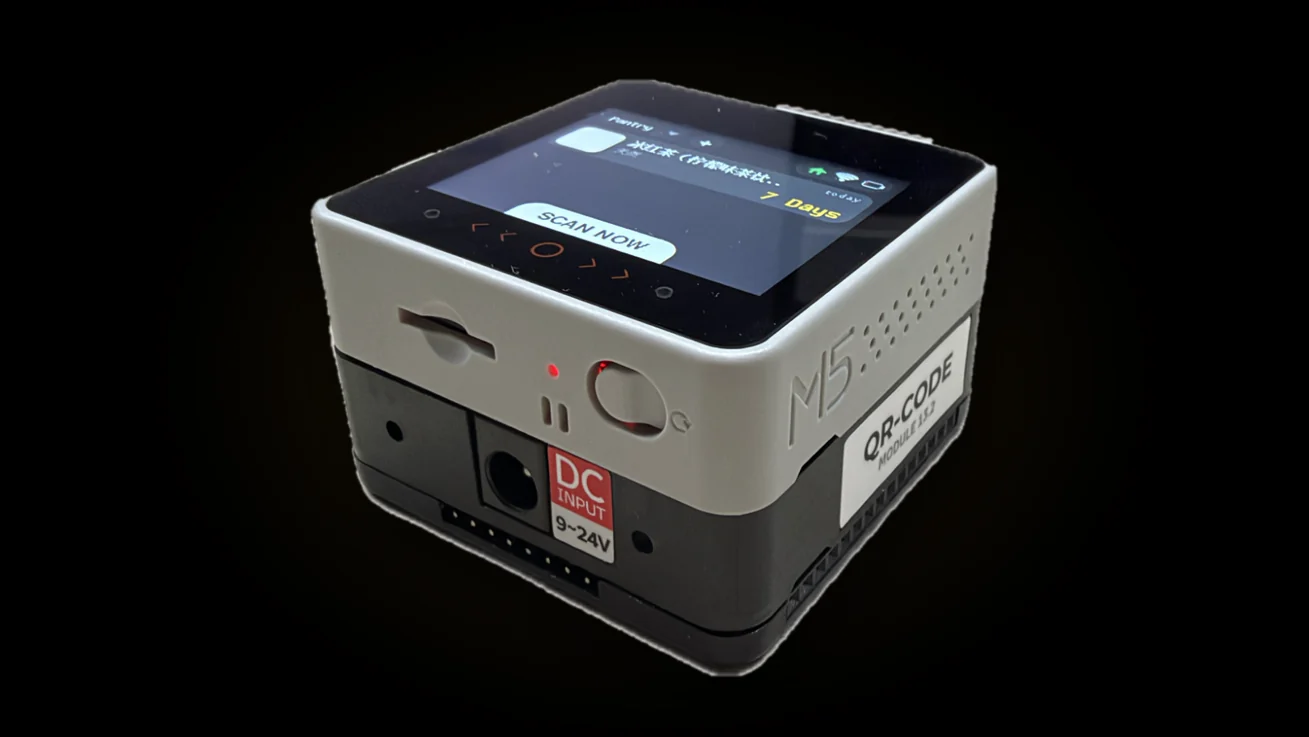
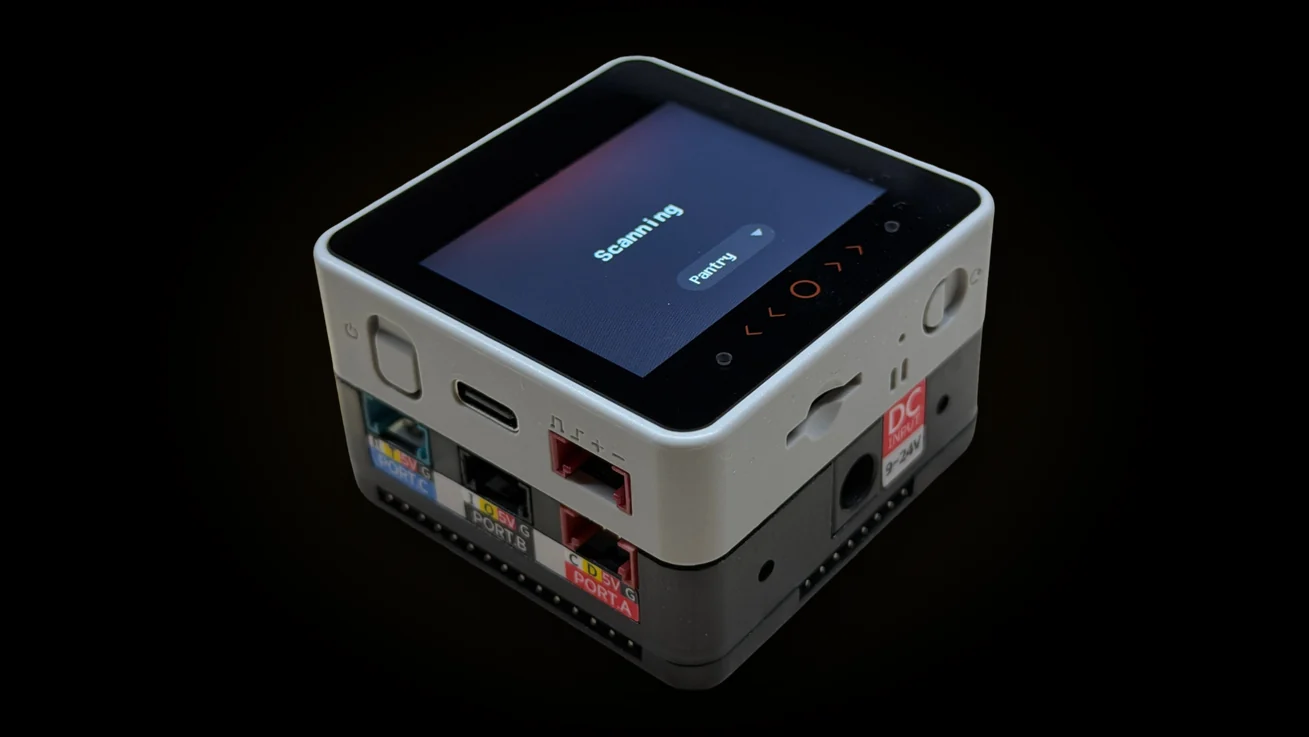
Pantry: the real CoreS3 SE in every mockup, bigger demo moments, Flashdeck and the public downloads; article tags sit on the AI mark's line

Changed region(s): [[0.2139, 0.0624, 0.7639, 0.9362]]

diff --git a/app/pantry/pantry.css b/app/pantry/pantry.css
@@ -15,41 +15,35 @@
 .pt .art-section b { color: rgba(240, 240, 240, 0.92); font-weight: 600; }
 .pt .art-section code { font-family: var(--pt-mono); font-size: 0.86em; padding: 0.1em 0.4em; border-radius: 6px; background: rgba(255, 255, 255, 0.07); color: #e6e6e6; }
 
-/* ── The CoreS3 SE: a 54 mm square in light grey, black glass, the 2-inch panel near the top ── */
-.pt-core {
-  position: relative; width: 100%; aspect-ratio: 1; border-radius: 11%;
-  background: linear-gradient(155deg, #f2f1ed 0%, #d8d7d2 42%, #bdbcb6 100%);
-  box-shadow:
-    inset 0 1.5px 0 rgba(255, 255, 255, 0.85), inset 0 -3px 6px rgba(0, 0, 0, 0.22), inset 3px 0 6px rgba(255, 255, 255, 0.25),
-    0 2px 3px rgba(0, 0, 0, 0.35), 0 18px 30px -14px rgba(0, 0, 0, 0.7), 0 44px 70px -40px rgba(8, 14, 30, 0.9);
-}
-.pt-core-glass { position: absolute; inset: 4.6%; border-radius: 8.5%; background: radial-gradient(120% 90% at 30% 0%, #141414 0%, #050505 55%); box-shadow: inset 0 0 0 1px rgba(255, 255, 255, 0.05), inset 0 1px 0 rgba(255, 255, 255, 0.08); }
-.pt-core-screen { position: absolute; left: 12.2%; right: 12.2%; top: 10.4%; aspect-ratio: 4 / 3; overflow: hidden; background: #000; border-radius: 0.6%; container-type: inline-size; }
-.pt-core-screen::after { content: ''; position: absolute; inset: 0; pointer-events: none; background: linear-gradient(160deg, rgba(255, 255, 255, 0.07) 0%, rgba(255, 255, 255, 0) 38%); }
-.pt-core-marks { position: absolute; left: 14%; right: 14%; top: 76.5%; height: 9%; display: flex; align-items: center; justify-content: space-between; color: rgba(214, 120, 52, 0.75); font-style: normal; font-family: var(--pt-sans); font-size: 5.4cqw; pointer-events: none; }
-.pt-core { container-type: inline-size; }
-.pt-core-marks b { width: 2.2cqw; height: 2.2cqw; border-radius: 50%; border: 1px solid rgba(220, 220, 220, 0.35); }
-.pt-core-marks em { width: 4.4cqw; height: 4.4cqw; border-radius: 50%; border: 0.5cqw solid rgba(214, 120, 52, 0.8); }
-.pt-core-marks span { line-height: 1; transform: translateY(-6%); }
+/* ── The CoreS3 SE: a photo of the real unit, the screen laid on its display window ──
+   The window is x 18-444, y 85-381 of the 476 x 475 photo; the 4:3 screen is as
+   tall as it (y 88-378) and centred (x 37.5-424.5). */
+.pt-core { position: relative; width: 100%; aspect-ratio: 476 / 475; }
+.pt-core-frame { position: absolute; inset: 0; width: 100%; height: 100%; display: block; pointer-events: none; user-select: none; filter: drop-shadow(0 22px 26px rgba(2, 6, 16, 0.55)) drop-shadow(0 4px 6px rgba(0, 0, 0, 0.35)); }
+.pt-core-screen { position: absolute; left: 7.88%; width: 81.3%; top: 18.53%; aspect-ratio: 4 / 3; overflow: hidden; background: #000; container-type: inline-size; }
+.pt-core-screen::after { content: ''; position: absolute; inset: 0; pointer-events: none; z-index: 5; background: linear-gradient(160deg, rgba(255, 255, 255, 0.06) 0%, rgba(255, 255, 255, 0) 36%); }
 .pt-shot { position: absolute; inset: 0; width: 100%; height: 100%; object-fit: cover; image-rendering: auto; }
 
-/* ── The demo: a phone video with buttons for its moments ── */
-.pt-demo { display: grid; grid-template-columns: minmax(0, 320px) minmax(0, 1fr); gap: clamp(18px, 3vw, 32px); align-items: end; margin-top: 18px; }
-.pt-demo-video { width: 100%; aspect-ratio: 9 / 16; max-height: 78vh; object-fit: cover; border-radius: 20px; background: #05070c; border: 1px solid rgba(255, 255, 255, 0.1); box-shadow: 0 30px 60px -34px rgba(0, 0, 0, 0.9); display: block; }
-.pt .pt-demo-moments { display: grid; gap: 8px; margin: 0; padding: 0; list-style: none; max-width: none; }
-.pt .pt-demo-moments li { padding: 0; }
+/* ── The demo: a phone video beside four moment cards that fill its height ── */
+.pt-demo { display: grid; grid-template-columns: minmax(0, 360px) minmax(0, 1fr); gap: clamp(16px, 2.6vw, 28px); align-items: stretch; margin-top: 18px; }
+.pt-demo-video { width: 100%; aspect-ratio: 9 / 16; max-height: 80vh; object-fit: cover; border-radius: 20px; background: #05070c; border: 1px solid rgba(255, 255, 255, 0.1); box-shadow: 0 30px 60px -34px rgba(0, 0, 0, 0.9); display: block; }
+.pt .pt-demo-moments { display: grid; grid-template-rows: repeat(4, minmax(0, 1fr)); gap: 10px; margin: 0; padding: 0; list-style: none; max-width: none; }
+.pt .pt-demo-moments li { padding: 0; min-height: 0; display: flex; }
 .pt .pt-demo-moments li::before { content: none; }
 .pt-demo-moments button {
-  display: flex; align-items: baseline; gap: 12px; width: 100%; text-align: left; cursor: pointer;
-  padding: 12px 14px; border-radius: 12px; border: 1px solid rgba(255, 255, 255, 0.09); background: rgba(255, 255, 255, 0.03);
-  font-family: 'dmsans'; font-size: 0.98rem; color: rgba(232, 232, 232, 0.78);
+  flex: 1; min-height: 0; display: flex; align-items: center; gap: 16px; width: 100%; text-align: left; cursor: pointer;
+  padding: 10px 18px 10px 10px; border-radius: 16px; border: 1px solid rgba(255, 255, 255, 0.1); background: rgba(255, 255, 255, 0.035); color: rgba(232, 232, 232, 0.8);
   transition: background-color 0.2s ease, border-color 0.2s ease, transform 0.25s cubic-bezier(0.2, 0.8, 0.2, 1);
 }
-.pt-demo-moments button span { font-family: var(--pt-mono); font-size: 0.82rem; color: rgba(var(--sa-accent), 0.9); min-width: 2.6em; }
-.pt-demo-moments button:hover { background: rgba(255, 255, 255, 0.07); border-color: rgba(255, 255, 255, 0.18); transform: translateX(3px); }
+.pt-demo-moments img { height: 100%; max-height: 132px; aspect-ratio: 9 / 16; width: auto; object-fit: cover; border-radius: 10px; flex: none; background: #05070c; }
+.pt-demo-text { display: grid; gap: 4px; min-width: 0; }
+.pt-demo-time { font-family: 'dmsans'; font-variant-numeric: tabular-nums; font-size: 0.92rem; font-weight: 700; letter-spacing: 0.02em; color: rgba(var(--sa-accent), 0.95); }
+.pt-demo-moments b { font-family: 'oswaldreg'; font-weight: 400; font-size: clamp(1.15rem, 1.6vw, 1.4rem); line-height: 1.2; color: #f0f0f0; }
+.pt-demo-note { font-family: 'dmsans'; font-size: 0.95rem; line-height: 1.45; color: rgba(232, 232, 232, 0.62); }
+.pt-demo-moments button:hover { background: rgba(255, 255, 255, 0.07); border-color: rgba(255, 255, 255, 0.2); transform: translateX(3px); }
 .pt-demo-moments button:active { transform: translateX(1px) scale(0.99); }
 .pt-demo-moments button:focus-visible { outline: 2px solid rgba(var(--sa-accent), 0.9); outline-offset: 2px; }
-.pt-demo-moments button.is-on { border-color: rgba(var(--sa-accent), 0.5); background: rgba(var(--sa-accent), 0.08); color: #f2f2f2; }
+.pt-demo-moments button.is-on { border-color: rgba(var(--sa-accent), 0.55); background: rgba(var(--sa-accent), 0.09); }
 
 /* ── Feature rows: the screen beside a few words ── */
 .pt-feat { display: grid; grid-template-columns: minmax(0, 0.92fr) minmax(0, 1fr); gap: clamp(18px, 3.4vw, 40px); align-items: center; }
@@ -186,8 +180,9 @@
 @media (max-width: 760px) {
   .pt-demo { grid-template-columns: minmax(0, 1fr); }
   .pt-demo-video { max-width: 340px; margin: 0 auto; max-height: 70vh; }
-  .pt-demo-moments { grid-template-columns: 1fr 1fr; }
-  .pt-demo-moments button { flex-direction: column; gap: 2px; padding: 10px 12px; font-size: 0.9rem; }
+  .pt .pt-demo-moments { grid-template-rows: none; }
+  .pt-demo-moments img { height: 96px; }
+  .pt-demo-moments button { gap: 14px; }
   .pt-feat { grid-template-columns: minmax(0, 1fr); }
   .pt-feat.flip .pt-feat-media { order: 0; }
   .pt-feat-media > .pt-core { max-width: 300px; }

diff --git a/app/pantry/page.tsx b/app/pantry/page.tsx
@@ -1,6 +1,7 @@
 import type { Metadata } from 'next';
 import ArticleScrollSpy from '../../components/ArticleScrollSpy';
 import AiMark from '../../components/AiMark';
+import ArticleLinks from '../../components/ArticleLinks';
 import ArticleRecommendations from '../../components/ArticleRecommendations';
 import LazyVideo from '../../components/LazyVideo';
 import { Screen } from './Core';
@@ -41,6 +42,9 @@ const BackArrow = () => (
   <svg viewBox="0 0 24 24" fill="none" aria-hidden="true"><path d="M15 19l-7-7 7-7" stroke="currentColor" strokeWidth="2" strokeLinecap="round" strokeLinejoin="round" /></svg>
 );
 const I = '/images/pantry/';
+const REPO = 'https://github.com/New-Kringster/Pantry_tracker_code';
+const DL = REPO + '/releases/latest/download/';
+const FLASHDECK = 'https://flashdeck.shebang.pro/';
 const V = '/videos/pantry/';
 
 /* One feature: the screen (and sometimes a clip of it in the hand) beside a few words. */
@@ -60,7 +64,7 @@ export default function PantryPage() {
       <ArticleScrollSpy />
 
       <header className="art-hero">
-        <div className="art-hero-bg"><img src={I + 'cover.webp'} alt="The pantry tracker: a CoreS3 SE stacked on the QRCode module, its screen listing a drink that expires in 7 days" /></div>
+        <div className="art-hero-bg"><img src={I + 'cover.webp'} alt="The pantry tracker: a CoreS3 SE stacked on the QRCode module and its battery base, the screen glowing red while it scans" /></div>
         <div className="art-hero-scrim"></div>
         <div className="art-hero-inner hp-section">
           <a className="art-back" href="/#projects"><BackArrow /> Back to projects</a>
@@ -80,6 +84,13 @@ export default function PantryPage() {
               <img src="/images/mosquitto-icon.svg" alt="Mosquitto MQTT" />
             </div>
           </div>
+          <ArticleLinks
+            links={[
+              { type: 'github', label: 'GitHub', url: REPO },
+              { type: 'download', label: 'Flash the firmware', url: FLASHDECK },
+              { type: 'download', label: 'Server downloads', url: REPO + '/releases/latest' },
+            ]}
+          />
           <p className="pt-meta">Internship project at M5Stack, November 2026. M5Stack CoreS3 SE, Module13.2 QRCode, C++, Python, Docker, MQTT.</p>
         </div>
       </header>
@@ -206,12 +217,16 @@ export default function PantryPage() {
 
           <section id="setup" className="art-section" data-reveal>
             <h2>Setting one up</h2>
+            <p>Everything you need is free to download: the firmware flashes from your browser, and the server comes as a Docker bundle with its images included, so nothing has to be pulled from Docker Hub while it installs.</p>
             <ol className="pt-steps">
               <li>
                 <p>On the QRCode module, slide the interface toggle to UART and switch on number 2 in both the TX and RX DIP blocks, then stack the three parts.</p>
                 <figure className="art-fig"><img src={I + 'diagram-hardware-setup.webp'} alt="The interface toggle set to UART, switch 2 on in the TX and RX DIP blocks, and the CoreS3 SE stacked on the module and the battery base" loading="lazy" /></figure>
               </li>
-              <li><p>Set <code>TZ</code> in <code>docker-compose.yml</code> to your time zone and run <code>./install.sh</code> on a computer with Docker, which loads the server and an MQTT broker without pulling anything from Docker Hub.</p></li>
+              <li><p>Open <a href={FLASHDECK} target="_blank" rel="noopener">Flashdeck</a> in Chrome or Edge, choose <b>Pantry</b>, plug the CoreS3 SE in over USB-C and press <b>Install</b>, which flashes the firmware straight from the browser.</p></li>
+              <li>
+                <p>Download the server for the computer that will run it, either the <a href={DL + 'pantry-server-docker-amd64.tar.gz'}>bundle for Intel and AMD computers</a> or the <a href={DL + 'pantry-server-docker-arm64.tar.gz'}>bundle for Apple Silicon Macs and a Raspberry Pi</a>. Unpack it, set <code>TZ</code> in <code>docker-compose.yml</code> to your time zone and run <code>./install.sh</code> in that folder.</p>
+              </li>
               <li>
                 <p>Turn the tracker on, scan the QR code on its screen with your phone, and enter your WiFi and the server address, for example <code>http://192.168.1.20:8080</code>.</p>
                 <figure className="art-fig"><img src={I + 'diagram-first-boot.webp'} alt="First boot: the tracker opens a Pantry hotspot with a QR code, the phone joins it, the setup page takes the WiFi and server address, and the home screen loads" loading="lazy" /></figure>
@@ -223,6 +238,7 @@ export default function PantryPage() {
               <li><p>In Home Assistant, add the MQTT integration with the server&rsquo;s IP address and port 1883.</p></li>
               <li><p>For Chinese barcodes, add a free gds.org.cn account under <b>Settings</b> on the server&rsquo;s web page and sign in once.</p></li>
             </ol>
+            <p>The <a href={REPO} target="_blank" rel="noopener">GitHub repository</a> has the full guide in its README, along with the firmware and server code if you would rather build them yourself.</p>
             <p className="pt-note">Product names and photos on this page come from Open Food Facts (CC BY-SA) and GS1 China.</p>
           </section>
         </div>

diff --git a/app/pantry/Core.tsx b/app/pantry/Core.tsx
@@ -1,10 +1,11 @@
 /*
-  The CoreS3 SE drawn in CSS around a screen (server-safe, no state).
+  The CoreS3 SE around a screen (server-safe, no state).
 
-  The proportions follow the real unit: a 54 mm square body in light grey,
-  black glass inset on its face, the 2-inch 320 x 240 panel near the top, and
-  the printed row of touch marks under it. The screen box is 4:3 and a
-  container, so anything inside can size itself in screen pixels with
+  The frame is a photo of the real unit, straight on, with its display blacked
+  out (public/images/pantry/cores3-front.webp, 476 x 475, from Braven). The
+  screen box sits on the display at 4:3, as tall as the black window and
+  centred in it, so the window's own black margin reads as the bezel. The box
+  is a container, so anything inside can size itself in screen pixels with
   --u (one of the panel's 320 pixels across).
 */
 import type { ReactNode } from 'react';
@@ -12,11 +13,8 @@ import type { ReactNode } from 'react';
 export function Core({ children, className, label }: { children: ReactNode; className?: string; label?: string }) {
   return (
     <div className={`pt-core${className ? ` ${className}` : ''}`} data-no-zoom role={label ? 'img' : undefined} aria-label={label}>
-      <i className="pt-core-glass" aria-hidden="true" />
+      <img className="pt-core-frame" src="/images/pantry/cores3-front.webp" alt="" aria-hidden="true" draggable={false} />
       <div className="pt-core-screen">{children}</div>
-      <i className="pt-core-marks" aria-hidden="true">
-        <b /><span>‹</span><span>‹</span><em /><span>›</span><span>›</span><b />
-      </i>
     </div>
   );
 }

diff --git a/app/pantry/DemoVideo.tsx b/app/pantry/DemoVideo.tsx
@@ -3,10 +3,10 @@
 import { useRef, useState } from 'react';
 
 const MOMENTS = [
-  { t: 0, label: 'Scanning from the demo sheet' },
-  { t: 45, label: 'A real carton' },
-  { t: 69, label: 'Scanning it again' },
-  { t: 78, label: 'Another pantry' },
+  { t: 0, label: 'Scanning from the demo sheet', note: 'Nutella, Coca-Cola and Ritter Sport off my laptop screen' },
+  { t: 45, label: 'A real carton', note: 'A carton of 冰红茶, named by GS1 China' },
+  { t: 69, label: 'Scanning it again', note: 'The saved carton opens instead of being added twice' },
+  { t: 78, label: 'Another pantry', note: 'Switching to the fridge and adding to it' },
 ];
 const mmss = (s: number) => `${Math.floor(s / 60)}:${String(s % 60).padStart(2, '0')}`;
 
@@ -30,7 +30,12 @@ export default function DemoVideo() {
         {MOMENTS.map((m, i) => (
           <li key={m.t}>
             <button type="button" className={i === at && now > 0 ? 'is-on' : ''} onClick={() => seek(m.t)}>
-              <span>{mmss(m.t)}</span>{m.label}
+              <img src={`/videos/pantry/moment-${i + 1}.webp`} alt="" loading="lazy" />
+              <span className="pt-demo-text">
+                <span className="pt-demo-time">{mmss(m.t)}</span>
+                <b>{m.label}</b>
+                <span className="pt-demo-note">{m.note}</span>
+              </span>
             </button>
           </li>
         ))}

diff --git a/public/mainstyle.css b/public/mainstyle.css
@@ -3325,7 +3325,8 @@ html.sensory-active .hp-pf-card.is-soon:hover {
 .hp-pf-card.is-compact .hp-pf-thumb > .ai-mark { --ai-h: 58px; top: 8px; right: 8px; border-radius: 7px; }
 .hp-rd-hero-tags { align-items: flex-end; }
 .hp-rd-hero-tags .ai-mark { --ai-h: 68px; align-self: flex-end; }
-.art-tags { align-items: center; }
+/* tags sit on the AI mark's bottom line, as in the peek reader, so a short pill never hangs beside the tall mark */
+.art-tags { align-items: flex-end; }
 .art-tags .ai-mark { --ai-h: 76px; }
 /* OCR Reader hero: under the lead, on the lead's left edge (the copy column is right-aligned) */
 .ws-hero-copy > .ai-mark { --ai-h: 76px; align-self: flex-end; margin: 2.6vh calc(min(100%, 440px) - var(--ai-h) * 84 / 94) 0 0; }

diff --git a/CLAUDE.md b/CLAUDE.md
@@ -45,7 +45,7 @@ Routes are file-based under `app/<route>/page.tsx`. There is no `links.js` route
 | `/beadreader` | `app/beadreader/page.tsx` → `ReadingTogether.tsx`, `SpicyGate.tsx` | Article: **BeadReader**, a private, invite-only online book reader (Next.js App Router + Tailwind v4 + Supabase Postgres/Storage + Cloudflare R2, custom HMAC-cookie auth). Bespoke warm **`paper` theme** (honey/amber/chestnut; green reserved for presence). Feature-showcase flagship: 8 chapters (private room / resume + reading themes / **reading together** / the SQL-enforced spicy gate / text + webtoon books / reading stats / offline + updates / the stack), real app screenshots as `art-fig`s (in `public/images/beadreader/`), GitHub + "Deploy your own" `ArticleLinks`. Hero + card use a designed promo graphic (`beadreader-cover.webp` / `beadreader-pf-context.webp`, both = `BeadreaderHeroandCard.png`, the "BeadReader by Shebang! LABS" lockup + phone mockups on black). The hero is **image-forward**: on desktop the promo's own wordmark leads and the `.art-title` h1 is sr-only (scoped `.br-hero` CSS in `page.tsx`); on phones the wide promo can't show its wordmark, so the backdrop zooms into the phones (`transform:scale`) and the gradient `.art-title` becomes visible instead. Official grey-bead mark is `beadreader-icon.png`. Bespoke widget `ReadingTogether` (scoped `.rt-*`) dramatises presence: an "Online now" panel with a same-book green ring + chapter badge and ephemeral wave/note bubbles (auto-cycles, pauses off-screen, no reflow, reduced-motion fallback). Second widget `SpicyGate` (scoped `.sg-*`, in the "spicy gate" chapter) dramatises the per-reader content gate: one chapter paragraph rendered three ways as you switch reader mode (Full access = blurred tap-to-reveal, No access = locked, Cal mode = removed entirely); same conventions. Spotlit on the homepage as the "Highlighted software build" and listed in the peek reader + `ArticleRecommendations` as `proj-beadreader` (personal + Highlight tier). Tool icons `nextjs/typescript/supabase/tailwind/cloudflare-icon.webp` |
 | `/waterslop` | `app/waterslop/page.tsx` → `Story.tsx`, `Agents.tsx`, `Compare.tsx`, `DrumNetWalk.tsx`, `ReadCycle.tsx`, `FocusLab.tsx`, `ConfigKingStory.tsx` + `ConfigKingSim.tsx`, `WaterslopChapter.tsx`, `PageFx.tsx` | Article: **OCR Reader** (internal name WaterSlop, hence the URL), the vision OCR water meter reader (NYP ECE). **Not the `art-*` template.** The page opens with **`Entrance.tsx`**: a meter's drum window draws in hairlines, `OCR READER` rolls onto the drums like an odometer (last two drums red, like a meter's decimals), then the plate breaks up in the bright dissolve to show the hero; once per tab session (`sessionStorage` `ws-intro-seen`), skipped by any click, key or wheel, never with reduced motion, timed from the CSS animation clock so a slow hydration does not hold it. Scrolling is native: the Lenis smoothing `PageFx` used to run was removed on request (November 2026), and the entrance's `ws-intro-done` event has no listener now. After the hero, every chapter is built from three section kinds in `Story.tsx`, all in the PCB chapter's art direction (Libre Baskerville + Manrope, `#181716`, `#d8cbb8`, hairlines): **`Cover`** opens a chapter as a pinned, full-screen opener in the style of Shopify Editions (300svh, sticky stage): the chapter's key visual (`bg`, cover-fitted) forms out of glitter in the bright dissolve (`components/dissolve.ts`, focus point `focus`), a giant Manrope title rises letter by letter (scroll-scrubbed per character via `--t`, `--i`, `--n`; phone size fits the longest line via `--w`), a serif one-line `lede` with a drop cap and the dotted contents follow, then the visual dissolves away into the dark ground before the chapter starts. Each opener creates its WebGL canvas only near the viewport and frees it when far away; reduced motion or no WebGL shows the still. Key visuals are the article's own photos and screenshots, except `metersim-key.webp` (GPT Image 2 via OpenRouter, from the real `metersim-designs.webp` sheet, labels removed); **`Page`** is a chapter that reads top to bottom: `rows` of one visual beside its copy (54 % / 36 % grid, `wide` rows put the copy beneath, `cls="copy-first"` above), each row fades its copy in via IntersectionObserver; **`Story`** is the pinned stage (height `n × per × 100svh`, native scroll picks the frame, `--p` is in-frame progress, only frames within one of the active one are mounted), kept only where one object changes step by step: the DrumNet run and the ConfigKing screen. Visuals carry no callouts or labelled leaders (all removed November 2026 on request; the copy names the parts). Styles in `story.css` (scoped `.ws-page`), tokens/hero/report in `article.css`. Chapters I–XII (November 2026 order; the design brief and camera calibration chapters were removed): **I–III run as one seamless flow with no covers between them**: the 3D PCB & enclosure chapter, whose story grew to 1400vh and ends with a **capture** (Chiambucket additions in the exported runtime, each marked: `timeline.js` keeps the exported timeline on [0, `CAPTURE_AT` = 1100/1400] and adds `captureBeats`; `scene.js` slerps the closed reader to an `AIM`/`AIM_MOBILE` pose and projects the lens to screen; `chapter.js` drives a `.capture` overlay through `--cap-*` CSS variables and swaps its copy; `markup.js` holds the overlay; `chapter.css` styles it: the reader turns to a round meter cut from `dn/photo.webp`, its field of view reaches the dial, the view irises open from the lens onto the camera's POV with a viewfinder, the LEDs flash, and the photo stays full-bleed). **Scrolling** (November 2026): the page scrolls natively everywhere, including the chapter, and the chapter's animation follows the scroll position through a critically damped spring (`follow()` in `chapter.js`, `FOLLOW` 11 rad/s), so it speeds up with the scroll, eases out after it and stays smooth through a jerky wheel or a fast fling; a jump of more than `JUMP` (0.12 of the chapter) in one frame, such as a contents link or the scrollbar, lands at once; reduced motion follows exactly. Nothing steps, plays on by itself or snaps: the controller is created with `takeWheel: false` (its wheel and touchmove listeners are passive), `autoplay: false` and `snap: false`, and only glides to a stop for Next and the contents links. The exported step mode (`chapterStep`), autoplay sections and the detent are still in `scroll-controller.js` but unused here. The capture's `AIM` pose turns the lens to face right (phones: `AIM_MOBILE`, down) and the meter is turned in perspective (`--turn`, `rotateY(46deg)` / phones `rotateX(44deg)`) with its centre at the lens's height (`--my: var(--lens-y)`), so the cone meets the dial square. Past the viewfinder stop, scrolling runs through the flash and the photo into the film (the late capture beats run on to `c` 0.9, so that stretch is never a long still photo). The DrumNet film (`id="drumnet"`, no cover) holds the page only briefly: for 3 s after it first starts (`holdUntil`, skipped by `data-ws-skipping` and reduced motion) downward wheel, swipes and keys stay on it, with a hint ("It plays on its own..."), so a reader who scrolls on to start it sees it play; it picks playback up again when the reader comes back to it. The hold's blocking listeners (wheel, touchmove, keys, the snap-back) are attached only for the hold itself, so the rest of the visit scrolls without waiting on the main thread. Its top has no detent any more: scrolling up from it scrubs back through the capture. its bar's last button is **Skip chapter**, which glides to ConfigKing (the zoom toggle is only the `z` key). It is pulled up over the chapter's last screen (`margin-top: -100svh`, invisible until its top reaches the viewport top) and opens on a `photo` scene (0.4 s) drawn full-bleed exactly like that last frame, then pulls back over 0.9 s; the chapter's last Next scrolls to that swap point (`#reading` anchor at `top: -100svh`). ConfigKing (`id="configking"`, no cover) opens on the same reading (`reread`) and walks the steps on **a photo of the real Cardputer** (`public/images/waterslop/cardputer.webp`, M5Stack's top view cut out; its LCD is live and its 56 keycaps are hit targets at measured positions, `LCD`/`CAP_X`/`CAP_Y` in `ConfigKingSim.tsx`; there is no separate key cluster). Under every device a switch picks **Zoom in** (default: no box; the whole photo scaled so its screen fills the frame and runs on past it, fading out through a radial mask on `.ck-unit`, with the frame class `ck-bleed` adding gradients behind the copy and the bottom controls so the words stay readable; `CROP` sets the scale), **Full view** (the whole Cardputer, its own screen is the touch screen) or **Magnified** (the screen enlarged above a smaller Cardputer, with a zoom callout); the choice is shared across the chapter through `CkViewContext` and switching animates (FLIP on `.ck-unit` and `.ck-tools` via `noteFlip`/`playFlip`, the Zoom in fade is a mask whose registered `--ck-mx`/`--ck-my` sizes transition, the magnified screen fades in). A **Full screen** button shows the device alone in a fixed layer portaled to `body` (locks the page and asks for browser full screen where it can, not on iPhone); on a phone held sideways (`orientation: landscape`, coarse pointer, height ≤ 540px) the active frame's Cardputer goes full screen on its own without locking the page, so swipes carry on through the chapter and it leaves when turned back. Live screens are `touch-action: pan-y`: taps and sideways drags are the simulator's, vertical swipes scroll the page. The first slide has a **Skip to the simulator** button (`SkipToSim`) that lands on the last frame; each step frame has `from` + `via` presses that replay going forward (the key glows on the photo, a chip names it, the simulator responds, then the step's own screen). Then MeterSim, SimGen2 (six stages named under their columns, the magenta/green overlay, and `Compare.tsx`: 21 real/SimGen2 pairs cut from the report sheets into `public/images/waterslop/pairs/` with a drag divider), agentic workflow (`Agents.tsx`: the loop as a running ring, six agent badges with a persona each, the sketch stacked with the scheduler screenshot, Managed with T3 Code), **DrumNet** (`DrumNetFilm.tsx`, a full-screen canvas film: `film/scenes.ts` lays the whole V10 architecture out on one world map in two columns like the report's diagram (input, spotter, refiner pass 1, pass 2 down the left; cut, three identical reader panels and the vote down the right), and defines 19 scenes, each a camera rectangle plus a `draw(ctx, env, p)` that is a pure function of its progress. Panels are revealed as the film reaches them (`REVEAL` maps panel → scene); `until` hides a scene's drawing once a later scene starts (the other drums re-run the reader panels), `finale` overrides what a scene draws in the finale, `revealedBounds` is the zoomed-out view. `film/draw.ts` holds the primitives including `drawNet`, the shared network animation (a 3 × 3 kernel sweeps the input while the first map fills row by row, the other maps slide in from above and stack). Reader stages are functions of (reader k, drum i) so readers 2 and 3 and the other five drums run the very same drawings quickly; their digits and rolls are real, the maps and units are reader 1's (noted on screen), scores for them are derived from the probabilities. Scenes: downscale, spotter blocks, the head (score picks the cell, the position drops through dx/dy/w/h, the box lands on the thumbnail), the crop flying to the refiner, refiner blocks, each block-4 map peeling off into the column and row average maps, the average maps morphing into the eight score/offset strips around the crop and the box pinned, pass 2 with the network outline copied down and replayed quickly, the cut, reader 1 (blocks, flatten with the block emptying, dense, digit, roll), readers 2 and 3, the vote (the three readers' answers fly from their panels into the vote rows under a pulled-back camera, `viewAt`), every other drum through all three readers, the carry rule and the reading, then the whole machine. Panel titles move into the gap above their panel when the map is far out, so they never cover content. Player bar: scene rail, prev/play/next, fast forward 1×/2×/4×, a Zoom out/in toggle (space, arrows, f, z); smooth camera; plays when scrolled into view, pauses out of view, reduced motion shows each scene finished. All numbers and maps are the real run's (`drumnet-data.ts` + `public/images/waterslop/dn/`). `window.__dnf` exposes seek/pause/zoom for screenshots), **Firmware** (`ReadCycle.tsx`: setup, the whole flowchart numbered with its nine steps beside it, dashboard), power (capture modes side by side with the drums at the same magnification), **camera** (`FocusLab.tsx`: lens × distance × chart lab on one page), **PCB & enclosure** (= the exported 3D chapter `WaterslopChapter.tsx`/`app/waterslop/chapter/`, its numeral passed in as a prop and its skip link hidden and its component-notes block collapsed to an invisible zero-height anchor by `WaterslopChapterStyle` (not `display: none`: at the last stop the chapter's Next scrolls that block into view, which is how it moves on to the next section), as the chapter's own cover; the written Prototype V2 page and one-row enclosure page now sit near the end of the article under their own `proto` cover; the 3D runtime is generated by `npm run export:site` in the separate WaterSlop project, edit there), **ConfigKing** (cover with the drawn Cardputer; pinned `ConfigKingStory.tsx`: each wizard step shown on `ConfigKingSim.tsx`, a canvas port of the Cardputer firmware's `ui.cpp`/`app.cpp` screens, keys and viewport transform against a simulated reader, drawn inside an SVG Cardputer whose 56 keycaps are buttons; the screen is a touch screen (everything drawn registers a hit rect while rendering, drags pan the picture), the page keyboard drives it once the reader clicks it, the picture darkens and brightens with exposure, gain and LED duty; the last frame is `tall` free play with a D-pad and labelled shortcut keys), conclusion (one row), and **the report** (plain block; `REPORT_PDF` in `page.tsx` is `/downloadable/ocr-reader-report.pdf`, the 58-page report hosted with the site and shown with `PdfEmbed`; `.vercelignore` excludes `*.pdf` but lets this one file through. The old OneDrive embed stopped opening for signed-out visitors). `SkipToEnd.tsx` is a floating pill in the bottom-left corner, shown once past the hero: "Skip to the end" until the conclusion is on screen, then "Back to top" (both set `data-ws-skipping` while they travel); it jumps to `#conclusion` and settles there as late images load. While it shows it sets `html[data-ws-skip="on"]` and `--ws-skip-x`/`--ws-skip-w`, which move the Story stage dots and the film's player bar clear of it (on phones it rises above the film's bar instead). Pressing it sets `data-ws-skipping`, which lets the jump through the film's hold. `PageFx` sets `--ws-nav` to the bottom edge of the floating `.pnav` pill (the stages and, through `--ws-top-inset`, the 3D chapter keep their titles under it). Only the hero and the closing "Other projects" sit on the night scene; every chapter between is opaque `#181716`, and `.ws-hero::after` / `.arec-section::before` fade between the two. The page ends with the report, then the shared recommendations and footer (no "All projects" block, like the other articles); its buttons carry the shared icons (`IcRead`, `IcOut`). `ArticleScrollSpy` lights the hero contents (covers carry the chapter ids; `*-body` sections have no link and keep the selection). Widgets inside frames read `useFrame()` to start/pause their own motion; interactive visuals carry `data-no-zoom`. Removed on request: overview, WindowNet/reader prose, payloads, Prototype V1, PCB assembly, processor, battery, circuits and layout. Spotlit on the homepage as the **flagship project** and listed in the peek reader and `ArticleRecommendations` as `proj-waterslop` titled **OCR Reader** (school + Flagship, banner `ocr-reader-flagship.webp`, card/peek `ocr-reader-pf-context.webp`) |
 | `/pip` | `app/pip/page.tsx` → `PipFx.tsx`, `Parts.tsx`, `tab5Scene.ts`, `pip.css` | Article: **Pip**, a desk pet on an M5Stack Tab5 whose brain is the DeepSeek Harness (dsh) on Braven's VM (source repo `~/DSH_pet_code`, private). Personal + **Highlight** tier (`proj-pip`, card `pip-pf-context.webp`, AI level L3 in `AiMark.tsx`), in the homepage gallery (`app/_home/content.ts` `PROJECTS`), ProjectPeek and ArticleRecommendations. **Not the `art-*` template**: scoped `.pp-*` CSS on pure black (`html.sensory-active main.pp` beats the site's transparent `main`; `html.pp-route .sl-scene { display: none }` hides the painted scene), Pip's firmware UI tokens (`include/ui.h`: ink surfaces, 12/20/28 radii) and **Nunito** via `next/font` (the tablet's own face). Each chapter is one of Pip's desktops and takes its colour as `--acc` (the hub palette: cyan, violet, pink, lime, gold, orange); fixed dots at the foot (`Desktops`) show the current one. `PipFx.tsx`: `Stage` (a tall section with a sticky child; `--p` from scroll through a critically damped spring, `from="enter"` for openers, `beats` + `onBeat`; reduced motion lays it out as plain blocks), `HeroMeet` (the hero and the Meet Pip opener in one 5.6-screen pinned stage, one WebGL canvas from `tab5Scene.ts`: M5Stack's Tab5 frame from `M5_Hardware/Products/C145_Tab5/Structures/Tab5.stl`, MIT, frame part only, centred and meshopt-compressed to `public/pip/tab5.glb`, plus a glass front and back plate added in code. The screen is two layers like the tablet's: Mopi's real home picture `mopi-home.webp` (copied read-only from the hub's `pet-workspace/pips/<key>/home.jpg`, brightness matched to a framebuffer capture, with the real status pill, status icons and name tag masked in) and Pip on its own plane, a "stacked alpha" video `public/videos/pip/pip-layer.*` (left half premultiplied colour, right half alpha, made by drawing each frame of Pip's firmware animation over black and over white; a small ShaderMaterial blends it). Stage progress q: 0 to 0.42 the tablet turns face-on and its screen fits the view while the body fades; 0.40 to 0.475 the home picture fades; 0.43 to 0.56 the same Pip plane flies to the Meet Pip slot (`.pp-hm-slot`, measured every frame, so the opener's exit slide carries it too); the opener's letters, line and exit run on `--op` (q 0.5..1 mapped to the normal opener's 0.3..1). `#meet` is an anchor over the stage's lower half so the desktop dots start there. Reduced motion: a still tablet (`mopi-home-still.webp`) and the opener with `mopi-slot.webp`), `Opener` (the other chapters: Pip clip, the title rising letter by letter, a slide left on exit), `Moods` (six pinned beats), `HatchSlides` (one Tab5 screen stepping through real stills or clips: auto-advance only on screen, dots or a tap to step, none under reduced motion), `PipDeck` (the eight Pips as one deck of their own cards, all in one grid cell so the deck keeps the tallest card's height; the cards behind peek out by depth (offset, 2.2° rotation, scale); a tap or click on the top card, the arrows, a swipe or the arrow keys flick it off to the back, and it deals itself every 4.2 s while on screen until the reader touches it; a counter shows "3 / 8"; reduced motion shows only the top card, cross-fading), `Clip` (loads near the screen, plays only on it, poster only with reduced motion or Save-Data), `Touches` (four cells on real hub frames `touch-*.webp`, re-captured on the current hub so the M5Stack page sits on white, zoomed about the action point, with a soft contact disc about a fingertip wide (no drawn finger) and the tablet's own marks at real size: blue `#39B2FF` dot then the hub's 44 px `#3fb950` ring, the 5 px blue drag trail, a pane growing on Expand, a left-to-right swipe back; CSS keyframes paused off screen, final states under reduced motion). The hero's "Read on M5Stack" is a disabled `span` (`aria-disabled`, not-allowed cursor) with M5Stack's own logo mark (`m5stack-mark.svg`, cropped by viewBox from their site's `m5logo.svg`, drawn as a CSS mask). `Parts.tsx`: `Tab` (the Tab5 drawn in CSS at its real 128 x 80 mm, panel 110.7 x 62.3 mm), `Win` (the browser Pip drives), `Flow` diagram. The page body (`.pp-body`) is black; the recommendations and the footer sit on the painted night scene, faded in by `.pp > .arec-section::before`, and the scene is only shown (`html.pp-end`) once the recommendations are within a screen. Wide rows centre their media (Tab5s at most 118svh wide; the browser window sized so its whole height fits in 80svh) and run their copy across the full measure beneath. Media: `public/videos/pip/` (`m-*` moods, `o-*` openers, `props`, `crew` and the stacked-alpha `pip-layer` rendered at 30 fps by Pip's firmware drawing code `src/pip.cpp` compiled on a computer; `drawer`, `control` from the tablet's framebuffer; `cursor` a GNOME screencast of the hub's Chromium on the VM, with the frames where the window was captured at the wrong size or half drawn (about 1 in 10, the flicker) replaced by the last good frame: a frame is good when the pane's fixed header strip matches a reference frame), stills in `public/images/pip/` (framebuffer captures, and Braven's own desk photo `desk-photo.webp`). "It points things out" is `point` (Pip vision, approved by Braven and added 2026-11-17 by the Pip builder: the hub tool `look_at_screen` hands the model a 1280x720 screenshot of the page, and the dsh config declares deepseek-flash with `input: [text, image]`): a real run on the live hub (demo desktop "Riva") on the unlabelled CC0 animal cell diagram (Wikimedia Commons, Conrad_7), framebuffer frames on their true times, each held to the next grab with a 0.15 s crossfade; half-size burst frames are swapped for the next full-size frame where the screen matches, else upscaled; Riva's home picture (frames 0 and 1) is left out. Source frames and the index are in the builder's `pip-article-media/k-vision/`. Final round (2026-11-17, footage in the builder's `pip-article-media/l-final/`): `switch` (Mopi to Fizz to Wavo), `ask` (a question typed into the spotlight bar and Riva's reply; frames 0108-0117 and the reply wait are cut, said in the copy) and `newpip` (the + gesture to the egg, step 1 of `HatchSlides`, then `hatch-riva` and `icard-riva`) were recorded with the scripted finger and the springs slowed 50x, a full-size grab every 1.5-2 s, mapped back to true time (20-24 fps of real frames); each real frame is held until the next (blending ghosted Pip, whose own clock is not slowed, so Pip's motion runs fast; single-frame pose spikes such as a mid-yawn frame are skipped, never invented), the instant desktop switch is a hard cut, and the credits say how they were made. `point` is the new real vision run in the corner layout (marks clear of the bubble), from the first stroke, with the wait before the arrow cut. `tictactoe` (960x540, real time, about 1.8 fps) sits beside Built by Pip. `How it works` lost the Hub diagram; `Coming next` is now `Still in progress`. Round 3 (2026-11-17): `drawer` and `control` are re-captured framebuffer sequences with each frame's true animation time (the tablet's slow-motion hook at 40x, every grab logged; `frames.txt` in the builder's `pip-article-media/j-round3/`), resampled to an even 30 fps by blending the two frames around each output time, because the first captures were unevenly spaced (stalls and a dropped frame: that was the jitter); the web-applet example (`.pp-call`) is a real two-device call: `intercom-call.webp`, a framebuffer still of the Intercom on the Tab5, in front of `intercom-mac.webp`, Braven's own screenshot of the Mac browser side (the tablet's camera view of him) composited into the MacBook Pro 16 mockup `pip-article-media/macbook-pro-16-space-black-mockup.png`; the LAN address is blurred in both (the Tab5 camera had failed with STREAMON errno 22 until a cold power cycle); `devring` is a tester subagent tapping a counter app inside the red testing border, each frame held for its real duration; `spot-switch` and `spot-plus` (the earlier low-frame-rate spotlight crops) were replaced by `switch`, `ask` and `newpip` in the final round. Desktops shows eight real Pips in `PipDeck`, under the copy beside the `HatchSlides` slide (`.pp-newpip`, two columns on one grid; on phones the deck sits centred under the copy) (`PIPS` in page.tsx, from their own persona cards; bodies in `public/images/pip/pips/` rendered with the firmware drawing code with a real alpha channel (drawn over black and over white by the `pipalpha` tool, 400x400, body height 198 px, base at y 317), so they sit on the card's tinted panel without a box) after the `HatchSlides` steps; the crew chapter shows the crew card on a home screen (`crew-home.webp`) and Kimi Code joining the crew as an outside agent over ACP (`kimi-1..3.webp`: crew card, its write permission on the tablet, Pip's report); the `Hub` diagram was later removed. Features shown as working were confirmed with the Pip builder thread on 2026-11-16; the closing block says the project is still in progress, with deploy instructions to come. |
-| `/pantry` | `app/pantry/page.tsx` → `PantrySim.tsx`, `DemoVideo.tsx`, `Core.tsx`, `pantry.css` | Article: **Pantry Expiry Tracker** (internship project at M5Stack, L3 AI use, not highlighted), the fridge-door expiry tracker on a CoreS3 SE + Module13.2 QRCode with a Docker server (code: `~/Pantry_tracker_code`, private repo; source assets in the Mac's `Documents/.../M5Stack/PantryExpiry/blog`). The shared `art-*` template with: `Core` (the CoreS3 SE drawn in CSS: grey body, black glass, the 4:3 panel is a container, so screen contents size in `--u` = 1/320 of its width) holding the real 640 x 480 screen captures; `DemoVideo` (the phone demo, `/videos/pantry/demo.*`, 0-76 s and 94 s-end of `IMG_8201.MOV` because the cut stretch reflects faces in a laptop screen, with moment buttons that seek); `PantrySim` (`.pxs-*`), a working copy of the firmware's screens (HOME sorted by expiry with the firmware's palette and urgency colours, SCAN with the red glow, ENTRY with Days/Weeks/Months pickers, DETAIL, swipe left for the bin, swipe right to go back, a toast on save) beside a shelf of five products whose barcodes are real EAN-13 encodings; it plays a scripted demo while on screen until the first touch, then stays manual ("Start over" resets). Feature rows (`.pt-feat`) pair captures with the hand-held clips (`/videos/pantry/scan.*`, `swipe.*`). Product thumbnails are Open Food Facts images in `public/images/pantry/products/`; the cover is the stack photo from the hardware diagram, keyed off white. Listed as `proj-pantry` (internship) in the gallery, peek reader and `ArticleRecommendations` |
+| `/pantry` | `app/pantry/page.tsx` → `PantrySim.tsx`, `DemoVideo.tsx`, `Core.tsx`, `pantry.css` | Article: **Pantry Expiry Tracker** (internship project at M5Stack, L3 AI use, not highlighted), the fridge-door expiry tracker on a CoreS3 SE + Module13.2 QRCode with a Docker server (code: `~/Pantry_tracker_code`, private repo; source assets in the Mac's `Documents/.../M5Stack/PantryExpiry/blog`). The shared `art-*` template with: `Core` (the CoreS3 SE from Braven's straight-on photo of the real unit, `public/images/pantry/cores3-front.webp`, display blacked out; the 4:3 screen box sits on its display window at left 7.88 %, top 18.53 %, width 81.3 % and is a container, so screen contents size in `--u` = 1/320 of its width) holding the real 640 x 480 screen captures; the hero cover and card are Braven's cut-out photo of the stack (`cover.webp`); the hero links GitHub (`New-Kringster/Pantry_tracker_code`, public since 2026-11-18, Docker bundles and the firmware on its Releases), Flashdeck (https://flashdeck.shebang.pro/, project Pantry) and the latest release; `DemoVideo` (the phone demo, `/videos/pantry/demo.*`, 0-76 s and 94 s-end of `IMG_8201.MOV` because the cut stretch reflects faces in a laptop screen, beside four moment cards with stills `moment-1..4.webp` that fill the video's height and seek); `PantrySim` (`.pxs-*`), a working copy of the firmware's screens (HOME sorted by expiry with the firmware's palette and urgency colours, SCAN with the red glow, ENTRY with Days/Weeks/Months pickers, DETAIL, swipe left for the bin, swipe right to go back, a toast on save) beside a shelf of five products whose barcodes are real EAN-13 encodings; it plays a scripted demo while on screen until the first touch, then stays manual ("Start over" resets). Feature rows (`.pt-feat`) pair captures with the hand-held clips (`/videos/pantry/scan.*`, `swipe.*`). Product thumbnails are Open Food Facts images in `public/images/pantry/products/`; the cover is the stack photo from the hardware diagram, keyed off white. Listed as `proj-pantry` (internship) in the gallery, peek reader and `ArticleRecommendations` |
 | `/brolocator` | `app/brolocator/page.tsx` | Article: LoRA Messenger |
 | `/csdp` | `app/csdp/page.tsx` | Article: EMA Smart Home (has team rows + embedded PDFs via `components/PdfEmbed.tsx`: the browser's PDF viewer on desktop, Google's document viewer on touch screens, because iOS Safari shows only the first page of a PDF in a frame and cannot scroll it) |
 | `/pandus` | `app/pandus/page.tsx` | Article: Pandus Dispenser |
